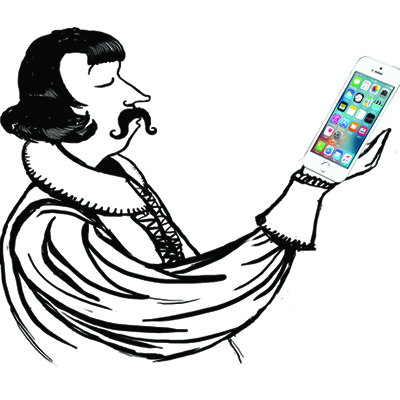
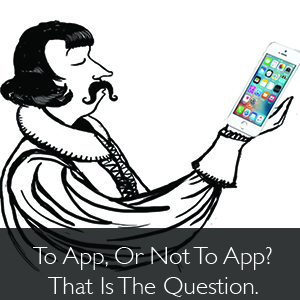
final update of the night

diff --git a/index.html b/index.html
@@ -15,10 +15,8 @@
   <body class="body">
   <a name="navigation"> 
   <div class="navbar"> 
-  <header>
     <nav class="navbar navbar-default navbar-fixed-top">
     <div class="container">
-    <div class="row">
   <div class="col-sm-12 col-centered text-center">
     <h1><a href="#navigation">Stephanie Farber</a></h1>
       </div>
@@ -40,58 +38,38 @@
         <a href="#resume">Resume</a>
       </div>
     </div>
-      </div> 
   </div>
       </div>
     </nav>
-</header> 
     </div> 
     </a> 
   <div class="container">
     <div class="intro">
     <div class="row">
-    <div class="col-md-12 col-centered text-center">
+    <div class="col-sm-12 col-centered text-center">
       <h2>About Me</h2>
       <p>I graduated from Tufts University in 2014 and have been working in marketing ever since. I recently moved to Seattle for a change of pace, and am looking for new career opportunities. I have always been incredibly passionate about healthcare and education, and channeled these passions through studying Community Health, founding a literacy program, and teaching a course about Sports Film during my time at Tufts. In my next role, I hope to combine the valuable marketing experience I have gained in the past few years with my interest in healthcare and education.</p>
       <br>
-      <p>Below, you will find some samples of my copy and design work. If you have any questions, or need further samples, please do not hesitate to contact me.</p>
+      <p>Below, you will find some samples of my copy and design work. If you have any questions, or need further samples, please do not hesitate to contact me via <a class="contact" href="https://www.linkedin.com/in/stephanie-farber-5a178945?trk=nav_responsive_tab_profile" target="_blank">LinkedIn</a> or shoot me a note. <a class="contact" href="mailto:steph.farber14@gmail.com?subject=Just read your portfolio, let's connect. !&body=Hey Steph, I just finished looking through your portfolio site. I believe you would be a great addition to our growing team. Looking forward to connecting with you."> Steph.Farber14@gmail.com</a>
       </div>
       </div>
-      <a href="contact">
-        <div class="contacticons">
-        <div class="row">
-        <div class="col-lg-6 col-centered text-center">
-            <a href="mailto:steph.farber14@gmail.com?subject=Love Your Website!&body=Hey Steph, I just finished looking through your portfolio site. I believe you would be a great addition to our growing team. Looking forward to connecting with you."><i class="fa fa-envelope fa-3x" aria-hidden="true"></i></a>
-        </div>
-         <div class="col-lg-6 col-centered text-center">
-            <a href="https://www.linkedin.com/in/stephanie-farber-5a178945?trk=nav_responsive_tab_profile" target="_blank"> <i class="fa fa-linkedin-square fa-3x" aria-hidden="true"></i></a>
-        </div>
-        </div>
-        </div>
-        </a>
-    </div>
-    </div> 
     <a name="emails">
     <div class="container">
     <div class="emails">
       <h2>Emails</h2>
       <div class="row">
-        <div class="col-md-6 col-centered text-center">
+        <div class="col-sm-6 col-centered text-center">
           <figure>
             <a href="https://preview.hs-sites.com/_hcms/preview/content/4573168536?preview_key=Clxg9GgS&from_buffer=false&_preview=true&portalId=454819&__hstc=20629287.38497c7db5b3e2bb6f0fb7c4fdc215fb.1452096610168.1481322521148.1481342856884.523&__hssc=20629287.5.1481342856884&__hsfp=122353093" target="_blank">
               <img class="img" src="photos/blogbites.jpg" alt="blogbites">
             </a>
-            <h3>Subject Line: This SaaSy Checkout Abandonment is Snow Joke</h3>
-            <h4>Preheader:Text text text text text this is me writing a creative preheader donet you love it?!</h4>
           </figure>
         </div>
-        <div class="col-md-6 col-centered text-center">
+        <div class="col-sm-6 col-centered text-center">
           <figure>
             <a href="https://preview.hs-sites.com/_hcms/preview/content/4539034558?preview_key=Pd3R8xP7&from_buffer=false&_preview=true&portalId=454819&__hstc=20629287.38497c7db5b3e2bb6f0fb7c4fdc215fb.1452096610168.1481342856884.1481345686655.524&__hssc=20629287.3.1481345686655&__hsfp=122353093" target="_blank">
               <img class="img" src="photos/novembernewsletter.jpg" alt="november newsletter">
             </a>
-            <h3>Subject Line: The Powered Buy Platform Gets Spooky Good Updates</h3>
-              <h4>Preheader:Text text text text text this is me writing a creative preheader donet you love it?!</h4>
           </figure>
         </div>
       </div>
@@ -108,7 +86,6 @@
             <a href="https://home.bluesnap.com/snap-center/blog/amazon-go-shaping-future-retail-payments/" target="_blank">
             <img class="img" src="photos/amazongo.jpg" alt="amazon go">
             </a>
-            <figcaption>Amazon Go</figcaption>
           </figure>
         </div>
         <div class="col-sm-6 col-centered text-center">
@@ -116,7 +93,6 @@
             <a href="https://home.bluesnap.com/snap-center/blog/app-or-not-app-that-is-question/" target="_blank">
             <img class="img" src="photos/toappornottoapp.jpg" alt="to app or not to app">
             </a>
-            <figcaption>To App or not to App: That is the Questions</figcaption>
           </figure>
         </div>
       </div>
@@ -124,9 +100,8 @@
         <div class="col-sm-6 col-centered text-center">
           <figure>
             <a href="http://blog.withings.com/2015/09/21/active-women-are-less-stressed/" target="_blank">
-              <img class="img" src="photos/activewomenlessstressed.jpg" alt="active women are less stressed">
+              <img class="img" src="photos/activewomen.jpg" alt="active women are less stressed">
             </a>
-            <figcaption>Active Women Are Less Stressed: Withings Study Confirms</figcaption>
           </figure>
         </div>
         <div class="col-sm-6 col-centered text-center">
@@ -134,7 +109,6 @@
             <a href="http://blog.withings.com/2015/07/31/paddle-boarding-workout/" target="_blank">
               <img class="img" src="photos/paddleboarding.jpg" alt="paddle boarding charles river">
             </a>
-            <figcaption>Is Paddle Boarding The Workout For You? We Found Out What’s SUP.</figcaption>
           </figure>
         </div>
         </div>
@@ -169,14 +143,14 @@
      <div class="eBooks">
      <h2>eBooks</h2>
      <div class="row">
-        <div class="col-lg-6 col-centered text-center">
+        <div class="col-sm-6 col-centered text-center">
           <figure>
             <a href="photos/BlueSnap_eBook_DefinitiveGuidetoOptimizingMobileECommerce_2016%20Final%20Feedback.pdf" target="_blank">
               <img class="img" src="photos/definitiveguidetomobile.jpg" alt="mobile ebook image">
             </a>
           </figure>
         </div>
-        <div class="col-lg-6 col-centered text-center">
+        <div class="col-sm-6 col-centered text-center">
           <figure>
             <a href="photos/10%20Questions%20to%20Ask%20Before%20Choosing%20a%20Payment%20Gateway%20Provider.pdf" target="_blank">
               <img class="img" src="photos/10questionsebook.jpg" alt="10 questions to ask image">

diff --git a/styles/portfolio-stylesheet.css b/styles/portfolio-stylesheet.css
@@ -22,13 +22,16 @@
 
 figure{
   padding-left: 15px;
-  padding-right: 10px;
+  padding-right: 20px;
+  padding-top: 1em;
+  padding-bottom: 1em;
 }
 
 img{
   max-width:100%;
   border-radius: 50px;
 }
+
 
 
 body{
@@ -112,6 +115,13 @@ h3{
 
 h4{
   color:#bababa;
+  padding-right: 3em;
+  margin-right: 2em;
+}
+
+h3{
+  padding-right: 3em;
+  margin-right: 2em;
 }
 
 .resume{
@@ -127,18 +137,7 @@ h4{
     url()
 }
 
-.contact{
-  min-width: 100%;
-  padding-bottom: 3em;
-  margin-bottom: -2em;
-  padding-top: 2em;
- background-image:
-  linear-gradient(45deg,
-       rgba(102, 249, 196, 0.7), 
-      rgba(102, 196, 249, 0.7)
-    ),
-    url()
-}
+
 
 .intro{
    background-image:
@@ -148,9 +147,13 @@ h4{
     ),
     url();
   padding-bottom: 1em;
-  margin-top: 4em;
+  margin-top: 9em;
+  color:white;
 }
 
+p{
+  color:white;
+}
 .contacticons{
   display:flex;
   justify-content: space-between;
@@ -160,11 +163,25 @@ div{
   display:block;
 }
 
+a{
+  color:teal;
+}
+
+.contact{
+  color:blue;
+}
 
 .container{
   min-width: 110%;
   margin-left: -1.5em;
+}
+col-sm-2 col-centered text-center{
+  color:teal;
+}
 
+col-sm-6 col-centered text-center{
+  padding-right: 2em;
+  margin-right: 2em;
 }
 
 h2{
@@ -190,10 +207,21 @@ html{
   padding-bottom: 1.5em;
   display:block;
   min-width: 100%;
+  background-image:
+  linear-gradient(45deg,
+       rgba(102, 249, 196, 0.7), 
+      rgba(102, 196, 249, 0.7)
+    ),
+    url()
 }
 
 .navbar{
-  background-color: rgba(0, 0, 0, 0.5);
+  background-image:
+  linear-gradient(45deg,
+       rgba(102, 249, 196, 0.7), 
+      rgba(102, 196, 249, 0.7)
+    ),
+    url()
   min-width: 100%;
   display: block;
 }
@@ -220,9 +248,6 @@ h1{
   padding-bottom: 40px;
 }
 
-header div{
-   background-color: rgba(0, 0, 0, 0.5);
-}
 
 .navheader ul {
   background-color: rgba(41, 188, 158, 0.8);
@@ -259,13 +284,7 @@ i{
   transition: 0;
 }
  
-.navheader a:hover {
- color: #005f5f;
-  padding-top: 5px;
-  padding-left: 5px;
-  padding-right: 5px;
-   transition: .3em;
-}
+
  
 .navheader a.active {
   color: #fff;
@@ -299,6 +318,12 @@ i{
   padding-left: 20px;
    vertical-align: middle;
   
+}
+
+p{
+  margin-left: 3em;
+  margin-right: 5em;
+  text-decoration: none;
 }
  
 .navfooter a {
